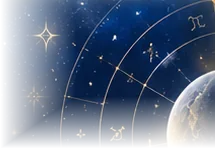
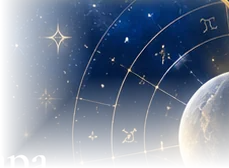
Karty O tobe podle predlohy: sklo pres oblohu, obraz vpravo nahore, zlate ramecky, vetsi pismo, sipka + SW v266

diff --git a/styles.css b/styles.css
@@ -909,17 +909,19 @@ table.pts td.p{font-family:var(--mono);white-space:nowrap}
 /* O tobě jako rozcestník */
 .nnow{margin:6px 0 12px;font-size:var(--fs-m);color:var(--text);line-height:1.5}
 .nnow .tvlab{display:block;margin-bottom:2px}
-.ntiles{display:grid;grid-template-columns:1fr 1fr;gap:12px;margin:4px 0 18px}
-.ntile{position:relative;overflow:hidden;display:flex;flex-direction:column;justify-content:flex-end;gap:2px;padding:14px 14px 12px;min-height:132px;background:linear-gradient(180deg,rgba(21,41,73,.72),rgba(12,26,50,.92));border:1px solid rgba(240,216,152,.28);border-radius:16px;box-shadow:0 8px 24px rgba(0,0,0,.28);color:var(--text);text-align:left;cursor:pointer;font:inherit}
-.ntile.main{min-height:160px;border-color:rgba(240,200,116,.7);box-shadow:0 0 0 1px rgba(240,200,116,.25),0 0 22px rgba(240,200,116,.22),0 8px 24px rgba(0,0,0,.3)}
-.ntile .art{position:absolute;right:-2px;top:-2px;width:66%;height:64%;background:var(--art) right top/cover no-repeat;opacity:.95;pointer-events:none}
-.ntile .ic{position:absolute;left:14px;top:12px;font-size:var(--fs-xxl);color:var(--gold);line-height:1;text-shadow:0 0 12px rgba(240,200,116,.45)}
-.ntile b{position:relative;font-family:var(--display);font-size:var(--fs-xl);font-weight:500;line-height:1.15;color:#FFF6E4;text-shadow:0 1px 6px rgba(0,0,0,.6)}
-.ntile.main b{font-size:22px}
-.ntile small{position:relative;font-size:var(--fs-s);color:#C9D6EA;line-height:1.35;padding-right:22px;text-shadow:0 1px 4px rgba(0,0,0,.6)}
-.ntile .chev{position:absolute;right:12px;bottom:12px;font-size:var(--fs-xl);color:var(--gold);line-height:1}
+.ntiles{display:grid;grid-template-columns:1fr 1fr;gap:14px;margin:6px 0 18px}
+.ntile{position:relative;overflow:hidden;display:flex;flex-direction:column;justify-content:flex-end;gap:3px;padding:16px 16px 14px;min-height:150px;background:linear-gradient(160deg,rgba(18,36,66,.66) 0%,rgba(10,22,44,.9) 100%);backdrop-filter:blur(6px);-webkit-backdrop-filter:blur(6px);border:1.5px solid rgba(240,216,152,.42);border-radius:20px;box-shadow:0 10px 28px rgba(0,0,0,.35),inset 0 1px 0 rgba(255,255,255,.08);color:var(--text);text-align:left;cursor:pointer;font:inherit}
+.ntile.main{min-height:186px;border-color:#F3D384;box-shadow:0 0 0 1px rgba(243,211,132,.35),0 0 26px rgba(243,211,132,.35),0 10px 28px rgba(0,0,0,.35)}
+.ntile .art{position:absolute;right:0;top:0;width:70%;height:70%;background:var(--art) right top/cover no-repeat;pointer-events:none}
+.ntile .ic{position:absolute;left:16px;top:14px;font-size:30px;color:#F3D384;line-height:1;text-shadow:0 0 14px rgba(243,211,132,.55)}
+.ntile.main .ic{font-size:36px}
+.ntile b{position:relative;font-family:var(--display);font-size:22px;font-weight:500;line-height:1.12;color:#FFF7E6;text-shadow:0 1px 6px rgba(0,0,0,.65)}
+.ntile.main b{font-size:26px}
+.ntile small{position:relative;font-size:var(--fs-m);color:#CFDBEE;line-height:1.3;padding-right:24px;text-shadow:0 1px 4px rgba(0,0,0,.65)}
+.ntile .chev{position:absolute;right:14px;bottom:14px;font-size:26px;color:#F3D384;line-height:1;font-weight:600}
 .ntile:active{transform:translateY(1px)}
-.ntiles .ntile:last-child:nth-child(odd){grid-column:1 / span 1}
+@media (max-width:360px){.ntile b{font-size:20px}.ntile.main b{font-size:23px}.ntile small{font-size:var(--fs-s)}}
+
 
 
 /* body mapy jako karty */

diff --git a/sw.js b/sw.js
@@ -1,6 +1,6 @@
 /* Kairos – service worker. Při každé změně index.html zvedni číslo verze. */
-const CACHE = 'kairos-v265';
-const SHELL = ['./', './index.html', './styles.css?v=265', './kairos-core.js?v=265', './data.js?v=265', './app.js?v=265', './astronomy.browser.min.js', './manifest.webmanifest', './logo.png', './logo-emblem.webp?v=1', './cyklus-dne.webp?v=1', './tile-mapa.webp?v=1', './tile-prochazis.webp?v=1', './tile-vztahy.webp?v=1', './tile-horoskop.webp?v=1', './tile-cisla.webp?v=1', './tile-cakra.webp?v=1', './tile-navraty.webp?v=1', './tile-hvezdy.webp?v=1', './logo-stars.webp?v=1', './moon-tex.png?v=1', './icon-192.png', './icon-512.png', './icon-maskable-512.png', './sky-day.webp?v=7', './sky-night.webp?v=4', './sky-night-hd2.webp?v=1', './sky-day-hd2.webp?v=1'];
+const CACHE = 'kairos-v266';
+const SHELL = ['./', './index.html', './styles.css?v=266', './kairos-core.js?v=266', './data.js?v=266', './app.js?v=266', './astronomy.browser.min.js', './manifest.webmanifest', './logo.png', './logo-emblem.webp?v=1', './cyklus-dne.webp?v=1', './tile-mapa.webp?v=2', './tile-prochazis.webp?v=2', './tile-vztahy.webp?v=2', './tile-horoskop.webp?v=2', './tile-cisla.webp?v=2', './tile-cakra.webp?v=2', './tile-navraty.webp?v=2', './tile-hvezdy.webp?v=2', './logo-stars.webp?v=1', './moon-tex.png?v=1', './icon-192.png', './icon-512.png', './icon-maskable-512.png', './sky-day.webp?v=7', './sky-night.webp?v=4', './sky-night-hd2.webp?v=1', './sky-day-hd2.webp?v=1'];
 
 self.addEventListener('install', (e) => {
   e.waitUntil(caches.open(CACHE).then((c) => c.addAll(SHELL.map((u) => new Request(u, { cache: 'reload' })))).then(() => self.skipWaiting()));

diff --git a/index.html b/index.html
@@ -25,7 +25,7 @@ var mt=document.querySelector('meta[name=theme-color]');if(mt)mt.setAttribute('c
 <link rel="preconnect" href="https://fonts.googleapis.com">
 <link rel="preconnect" href="https://fonts.gstatic.com" crossorigin>
 <link rel="stylesheet" href="https://fonts.googleapis.com/css2?family=Cormorant+Garamond:ital,wght@0,500;0,600;1,500&family=IBM+Plex+Sans:wght@400;500;600&family=IBM+Plex+Mono:wght@400;500&display=swap">
-<link rel="stylesheet" href="styles.css?v=265">
+<link rel="stylesheet" href="styles.css?v=266">
 </head>
 <body>
 <div id="splash" aria-hidden="true"><img class="sp-em" src="logo-emblem.webp?v=1" alt=""><span class="bname"><i class="l1"><b>NEBESKÝ</b></i><i class="l2"><b>KOMPAS</b></i></span><img class="sp-st" src="logo-stars.webp?v=1" alt=""><span class="claim sp-cl"><i>tvůj</i><i class="mid">hvězdný</i><i class="big">kalendář</i></span></div>
@@ -54,8 +54,8 @@ var mt=document.querySelector('meta[name=theme-color]');if(mt)mt.setAttribute('c
 <div class="toast" id="toast"></div>
 <div class="upbar" id="upbar" role="status"><span><b>Nová verze je připravená</b>Obnov a máš ji hned.</span><button type="button" id="upGo">Obnovit</button><button type="button" class="upx" id="upX" aria-label="Zavřít">×</button></div>
 <script src="astronomy.browser.min.js"></script>
-<script src="kairos-core.js?v=265"></script>
-<script src="data.js?v=265"></script>
-<script src="app.js?v=265"></script>
+<script src="kairos-core.js?v=266"></script>
+<script src="data.js?v=266"></script>
+<script src="app.js?v=266"></script>
 </body>
 </html>

diff --git a/app.js b/app.js
@@ -1,6 +1,6 @@
 (function () {
   'use strict';
-  const VERSION = 'v265';
+  const VERSION = 'v266';
   const A = Astronomy;
   const K = createKairosEngine(A);
   const TX = createKairosTexts(K);
